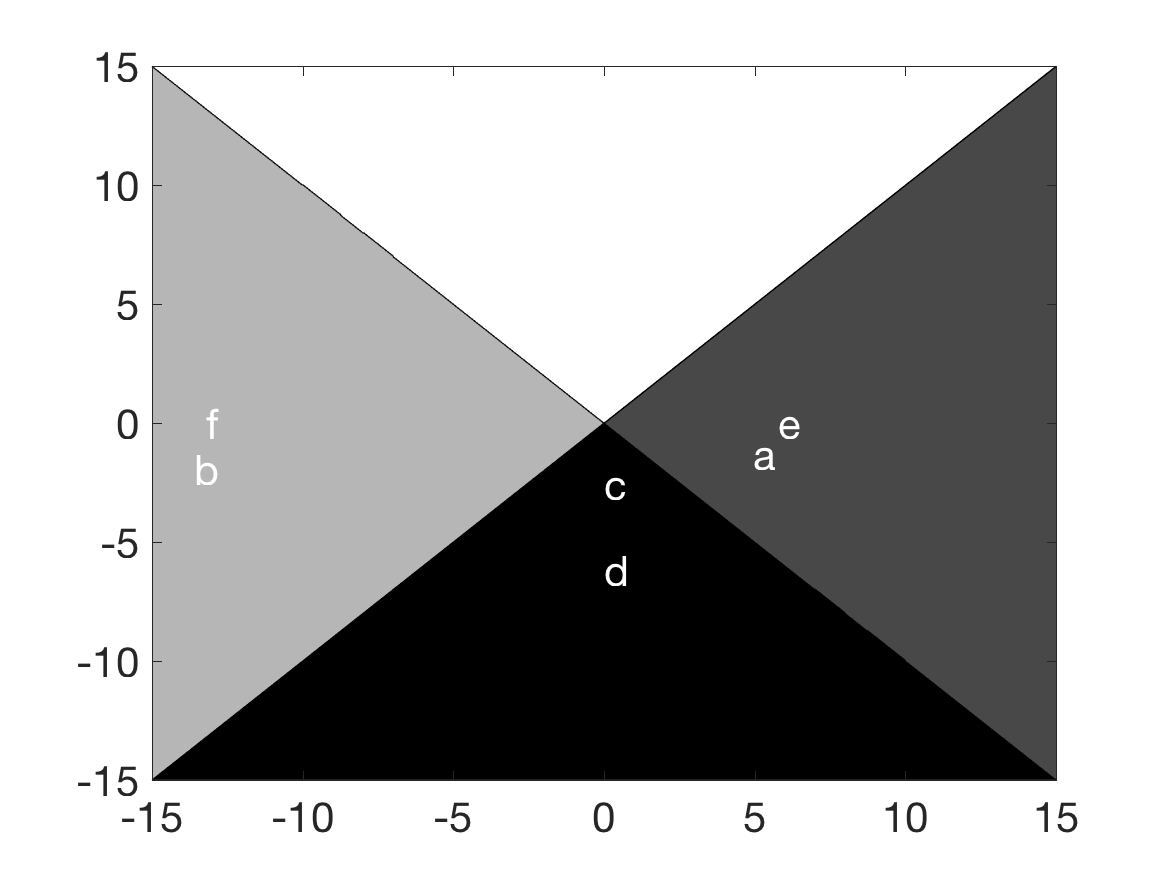
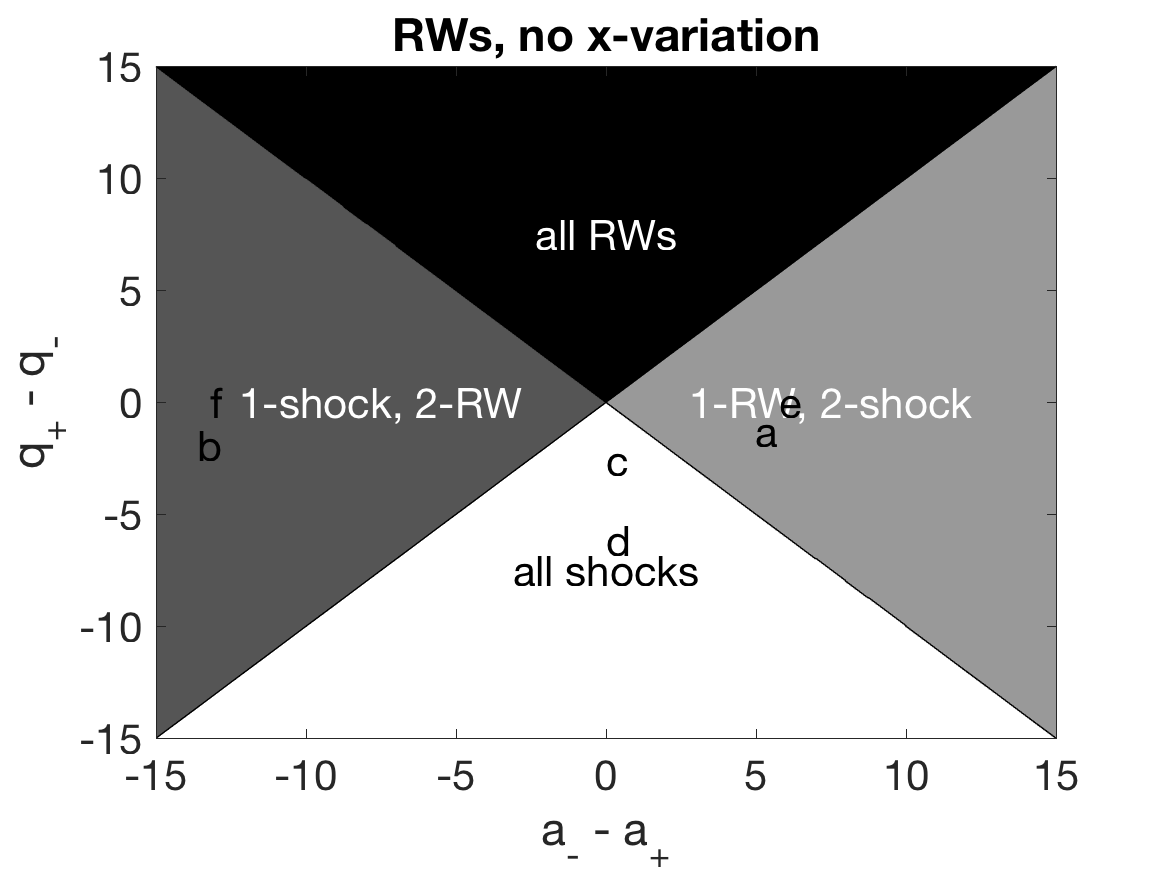
Added labels to plot

diff --git a/KP2_line_soli_code/kodama_cases.m b/KP2_line_soli_code/kodama_cases.m
@@ -22,12 +22,20 @@ qvec = linspace(-15,15,1000);
 [AV,QV] = meshgrid(avec,qvec);
 
 fh = figure(1); clf; set(gcf,'Color','White');
-    contourf(AV,QV,((AV<=QV) + 1/2*(AV>=-QV)));
+    contourf(AV,QV,(-(AV<=QV) - 1/2*(AV>=-QV)));
     set(gca,'fontsize',20);
     colormap(gray);
 %     colorbar;
     hold on;
-    text(da,dq,klabel,'Color','white','fontsize',20);
+    title(['RWs, no x-variation']);
+    xlabel(['a_- - a_+']);
+    ylabel(['q_+ - q_-']);
+        text([-15/2,0,0,15/2],[0,-15/2,15/2,0],...
+        [{'1-shock, 2-RW'},{'all shocks'},{'all RWs'},{'1-RW, 2-shock'}],...
+        'Color','w','fontsize',20,'HorizontalAlignment','center');
+    text(0,-15/2,'all shocks','fontsize',20,'HorizontalAlignment','center');
+
+    text(da,dq,klabel,'Color','k','fontsize',20);
     drawnow;
     
 print('kodama_cases','-dpng');
